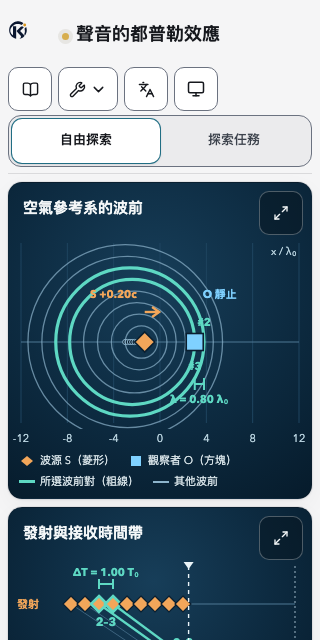
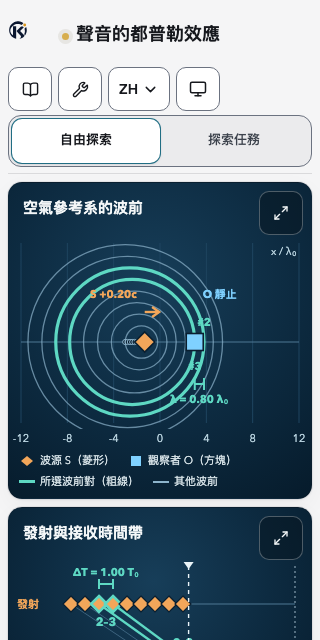
fix(doppler): tooltips follow hover and Tab focus only; language and tools as drop-downs
A tooltip no longer lingers after a click, a closed dialog or a closed notice:
it is driven by state (hover, or focus reached by Tab), not by :focus-within,
and steps aside when the control is used. The language control is a drop-down
showing its code (ZH/EN); tools has no chevron.

Changed region(s): [[0.3125, 0.0938, 0.6875, 0.1875], [0.2188, 0.125, 0.2812, 0.1562]]

diff --git a/tests/e2e/doppler.spec.ts b/tests/e2e/doppler.spec.ts
@@ -225,9 +225,7 @@ test.describe("Doppler — free exploration", () => {
     await page.getByRole("button", { name: "工具", exact: true }).click();
     await page.getByRole("button", { name: /匯出教學圖/ }).click();
     await expect(page.getByTestId("notice")).toContainText("已匯出");
-    // Focus returned to the tools button, whose tooltip is showing: the first Escape dismisses the tooltip only.
-    await page.keyboard.press("Escape");
-    await expect(page.getByTestId("notice")).toBeVisible();
+    // Focus returned to the tools button without raising a tooltip, so this Escape closes the notice.
     await page.keyboard.press("Escape");
     await expect(page.getByTestId("notice")).toHaveCount(0);
   });
@@ -265,12 +263,14 @@ test.describe("Doppler — free exploration", () => {
     await toggle.getByRole("button", { name: "自由探索" }).click();
     await expect(toggle).toHaveAttribute("data-value", "free");
 
-    // Header controls: icon only, named by aria-label, with a tooltip that appears on hover and on keyboard focus.
-    const headerControls: [string | RegExp, string][] = [["理論與模型", "理論與模型"], ["工具", "工具"], ["語言：English", "English"], [/^外觀：/, "外觀"]];
-    for (const [name, tip] of headerControls) {
-      const control = page.locator(".header-actions").getByRole(typeof name === "string" && name.startsWith("語言") ? "link" : "button", typeof name === "string" ? { name, exact: true } : { name });
+    // Header controls: named by aria-label, with a tooltip on hover and on keyboard focus. Theory, tools and appearance are
+    // icon-only; the language menu shows its code. Tools has no chevron; language and appearance are drop-downs.
+    const headerControls: [string | RegExp, string, boolean][] = [["理論與模型", "理論與模型", true], ["工具", "工具", true], ["語言：繁體中文", "語言", false], [/^外觀：/, "外觀", true]];
+    for (const [name, tip, iconOnly] of headerControls) {
+      const control = page.locator(".header-actions").getByRole("button", typeof name === "string" ? { name, exact: true } : { name });
       await expect(control.locator("svg").first()).toBeVisible();
-      expect((await control.innerText()).trim()).toBe("");
+      if (iconOnly) expect((await control.innerText()).trim()).toBe("");
+      else expect((await control.innerText()).trim()).toBe("ZH");
       const box = await control.boundingBox();
       expect(box!.height).toBeGreaterThanOrEqual(43.5);
       expect(box!.width).toBeGreaterThanOrEqual(43.5);
@@ -279,7 +279,10 @@ test.describe("Doppler — free exploration", () => {
       await page.mouse.move(0, 400);
       await expect.poll(() => control.evaluate((el) => getComputedStyle(el.closest(".doppler-tip")!, "::after").display)).toBe("none");
     }
-    await page.getByRole("button", { name: "理論與模型" }).focus();
+    expect(await page.getByRole("button", { name: "工具", exact: true }).locator("svg").count()).toBe(1); // the wrench only: no chevron
+    await page.getByRole("button", { name: "探索任務" }).focus();
+    await page.keyboard.press("Tab"); // the next stop is the theory button
+    await expect(page.getByRole("button", { name: "理論與模型" })).toBeFocused();
     await expect.poll(() => page.getByRole("button", { name: "理論與模型" }).evaluate((el) => getComputedStyle(el.closest(".doppler-tip")!, "::after").opacity)).toBe("1");
 
     // One entry for theory and model: no separate model-information control, and its content is in the theory.
@@ -318,7 +321,9 @@ test.describe("Doppler — free exploration", () => {
     await expect.poll(() => tipDisplay("理論與模型")).toBe("block");
     // Keyboard focus: dismiss with Escape, focus stays, Tab away and back restores it.
     await page.mouse.move(0, 400);
-    await theory.focus();
+    await page.getByRole("button", { name: "探索任務" }).focus();
+    await page.keyboard.press("Tab");
+    await expect(theory).toBeFocused();
     await expect.poll(() => tipDisplay("理論與模型")).toBe("block");
     await page.keyboard.press("Escape");
     await expect.poll(() => tipDisplay("理論與模型")).toBe("none");
@@ -332,6 +337,57 @@ test.describe("Doppler — free exploration", () => {
     await expect(page.getByRole("button", { name: /匯出教學圖/ })).toBeVisible();
     await page.keyboard.press("Escape");
     await expect(page.getByRole("button", { name: /匯出教學圖/ })).toHaveCount(0);
+  });
+
+  test("a tooltip never lingers after a click, a dialog, or a closed notice; the language menu is a drop-down", async ({ page }) => {
+    await open(page);
+    const tips = () => page.evaluate(() => [...document.querySelectorAll(".doppler-tip")].map((el) => getComputedStyle(el, "::after").display));
+    const none = (list: string[]) => list.every((display) => display === "none");
+    // Mouse: click the theory button, close the dialog (focus returns to the button), move away: nothing is left showing.
+    await page.getByRole("button", { name: "理論與模型", exact: true }).click();
+    await expect(page.getByRole("dialog")).toBeVisible();
+    await page.keyboard.press("Escape");
+    await expect(page.getByRole("dialog")).toHaveCount(0);
+    await page.mouse.move(0, 400);
+    await expect.poll(async () => none(await tips())).toBe(true);
+    // The share notice: open it, close it with the mouse, move away: no tooltip anywhere.
+    await page.getByRole("button", { name: "工具", exact: true }).click();
+    await page.getByRole("button", { name: /分享起始設定/ }).click();
+    await page.getByTestId("notice").getByRole("button", { name: "關閉通知" }).click();
+    await expect(page.getByTestId("notice")).toHaveCount(0);
+    await page.mouse.move(0, 400);
+    await expect.poll(async () => none(await tips())).toBe(true);
+    // Keyboard: Tab to the button shows its tooltip; Enter opens the dialog; when it closes, the returned focus stays quiet.
+    await page.getByRole("button", { name: "探索任務" }).focus();
+    await page.keyboard.press("Tab");
+    await expect.poll(async () => (await tips()).includes("block")).toBe(true); // reached by Tab: the tooltip is for this
+    await page.keyboard.press("Enter");
+    await expect(page.getByRole("dialog")).toBeVisible();
+    await page.keyboard.press("Escape");
+    await expect(page.getByRole("dialog")).toHaveCount(0);
+    await expect(page.getByRole("button", { name: "理論與模型", exact: true })).toBeFocused(); // focus came back...
+    await expect.poll(async () => none(await tips())).toBe(true); // ...without raising a tooltip
+
+    // Language: a drop-down of the two languages, current one marked, Escape closes it and returns focus.
+    const trigger = page.getByRole("button", { name: /^語言：繁體中文/ });
+    await expect(trigger).toHaveAttribute("aria-haspopup", "true");
+    await expect(trigger).toHaveAttribute("aria-expanded", "false");
+    await trigger.click();
+    await expect(trigger).toHaveAttribute("aria-expanded", "true");
+    const menu = page.locator(".doppler-menu-list", { has: page.getByRole("link", { name: "English" }) });
+    await expect(menu.getByRole("button", { name: "繁體中文" })).toHaveAttribute("aria-pressed", "true");
+    await expect(menu.getByRole("link", { name: "English" })).toHaveAttribute("href", /^\/en\/doppler\?s=/);
+    await expect(menu.getByRole("link", { name: "English" })).toHaveAttribute("hreflang", "en");
+    const box = await menu.boundingBox();
+    expect(box!.x).toBeGreaterThanOrEqual(0);
+    expect(box!.x + box!.width).toBeLessThanOrEqual(page.viewportSize()!.width);
+    await page.keyboard.press("Escape");
+    await expect(menu).toHaveCount(0);
+    await expect(trigger).toBeFocused();
+    // The appearance control is also a drop-down.
+    await page.getByRole("button", { name: /^外觀：/ }).click();
+    await expect(page.locator(".theme-menu__list")).toBeVisible();
+    await page.keyboard.press("Escape");
   });
 
   test("clicking a front that O never receives explains why and changes nothing; the last received front selects its pair", async ({ page }) => {
@@ -743,10 +799,13 @@ test.describe("Doppler — share, export, language", () => {
     await page.getByRole("button", { name: "Source approaches" }).click();
     await page.getByRole("button", { name: "Play to reception" }).first().click();
     await expect(page.getByTestId("pair-readout").locator("dl > div", { hasText: "Received frequency" }).locator("dd")).toHaveText("1.25");
-    await page.getByRole("link", { name: /繁體中文/ }).click();
+    await page.getByRole("button", { name: /^Language：English/ }).click();
+    await expect(page.getByRole("button", { name: "English", exact: true })).toHaveAttribute("aria-pressed", "true"); // the current language is marked
+    await page.getByRole("link", { name: "繁體中文" }).click();
     await expect.poll(() => new URL(page.url()).pathname).toBe("/doppler");
     await expect(page.getByRole("button", { name: "波源靠近" })).toHaveAttribute("aria-pressed", "true");
-    await page.getByRole("link", { name: /English/ }).click();
+    await page.getByRole("button", { name: /^語言：繁體中文/ }).click();
+    await page.getByRole("link", { name: "English" }).click();
     await expect.poll(() => new URL(page.url()).pathname).toBe("/en/doppler");
     await expect(page.getByRole("button", { name: "Source approaches" })).toHaveAttribute("aria-pressed", "true");
     // Guided English copy and theory.

diff --git a/components/DopplerLab.tsx b/components/DopplerLab.tsx
@@ -2,7 +2,7 @@
 
 import { useCallback, useEffect, useMemo, useRef, useState, type ReactNode } from "react";
 import Link from "next/link";
-import { BookOpen, Check, ChevronDown, ChevronLeft, ChevronRight, CircleCheck, Copy, Expand, FileBraces, FileImage, Languages, Lock, Maximize2, Minimize2, Pause, Play, RotateCcw, Share2, SkipBack, SkipForward, StepBack, StepForward, TriangleAlert, Wrench, X } from "lucide-react";
+import { BookOpen, Check, ChevronDown, ChevronLeft, ChevronRight, CircleCheck, Copy, Expand, FileBraces, FileImage, Lock, Maximize2, Minimize2, Pause, Play, RotateCcw, Share2, SkipBack, SkipForward, StepBack, StepForward, TriangleAlert, Wrench, X } from "lucide-react";
 import KakauLabMark from "@/components/KakauLabMark";
 import ThemeToggle from "@/components/ThemeToggle";
 import LabInfoDialog from "@/components/overlays/LabInfoDialog";
@@ -15,7 +15,7 @@ import WavefrontView from "@/components/doppler/WavefrontView";
 import { dopplerCopy } from "@/components/doppler/copy";
 import { DOPPLER_COLORS as C } from "@/components/doppler/palette";
 import { useElementSize } from "@/components/doppler/useElementSize";
-import { localizedPath, type Locale } from "@/lib/i18n";
+import { localizedPath, supportedLocales, type Locale } from "@/lib/i18n";
 import {
   createDopplerExperiment,
   dopplerAnalytic,
@@ -66,6 +66,8 @@ import {
 type Expanded = "wave" | "band" | null;
 type Snapshot = { setup: DopplerSetup; view: DopplerView; preset: DopplerPresetId | null; time: number; reference: DopplerReference | null };
 
+/** Short language codes shown on the language menu's button. */
+const LOCALE_CODES: Record<Locale, string> = { "zh-TW": "ZH", en: "EN" };
 const RATES = [0.25, 0.5, 1, 2, 4] as const;
 const f2 = (v: number | null | undefined) => (v === null || v === undefined || !Number.isFinite(v) ? "—" : v.toFixed(2));
 const signedC = (u: number) => (u === 0 ? "0" : `${u > 0 ? "+" : "−"}${Math.abs(u).toFixed(2)}c`);
@@ -86,12 +88,24 @@ function useReducedMotion() {
 /** An icon-only control that names itself in a tooltip on hover and keyboard focus (the accessible name is on the control). */
 function Tip({ label, children }: { label: string; children: ReactNode }) {
   const [hovered, setHovered] = useState(false);
-  const [focused, setFocused] = useState(false);
+  const [keyboardFocus, setKeyboardFocus] = useState(false);
   const [dismissed, setDismissed] = useState(false);
   const ref = useRef<HTMLSpanElement>(null);
-  const showing = (hovered || focused) && !dismissed;
-  /* WCAG 1.4.13: while a tooltip is showing, Escape dismisses it without moving focus and without doing anything else
-   * (the capture phase keeps this Escape from also closing a notice). A menu that is open owns its own Escape. */
+  const tabbedAt = useRef(0);
+  const showing = (hovered || keyboardFocus) && !dismissed;
+  /* Keyboard focus means focus that arrived by Tab or Shift+Tab. Focus that a script put back (a dialog returning to its
+   * button, a menu to its trigger) is not navigation, so it never raises a tooltip. */
+  useEffect(() => {
+    // Any other key, or a pointer press, ends "navigating by Tab".
+    const onKey = (event: KeyboardEvent) => { tabbedAt.current = event.key === "Tab" ? performance.now() : 0; };
+    const onPointer = () => { tabbedAt.current = 0; };
+    document.addEventListener("keydown", onKey, true);
+    document.addEventListener("pointerdown", onPointer, true);
+    return () => { document.removeEventListener("keydown", onKey, true); document.removeEventListener("pointerdown", onPointer, true); };
+  }, []);
+  /* A tooltip belongs to hovering or to keyboard focus, never to focus that a mouse click or a dialog's focus-return left behind,
+   * and it steps aside as soon as the control is used. While it is showing, Escape dismisses it (WCAG 1.4.13) without moving
+   * focus and without doing anything else (the capture phase keeps this Escape from also closing a notice); an open menu owns its Escape. */
   useEffect(() => {
     if (!showing) return;
     const onKey = (event: KeyboardEvent) => {
@@ -107,18 +121,19 @@ function Tip({ label, children }: { label: string; children: ReactNode }) {
       ref={ref}
       className="doppler-tip"
       data-tip={label}
-      data-dismissed={dismissed}
+      data-open={showing}
       onMouseEnter={() => { setHovered(true); setDismissed(false); }}
       onMouseLeave={() => { setHovered(false); setDismissed(false); }}
-      onFocus={() => { setFocused(true); setDismissed(false); }}
-      onBlur={() => { setFocused(false); setDismissed(false); }}
+      onFocus={(event) => { if (performance.now() - tabbedAt.current < 300 && event.target.matches(":focus-visible")) { setKeyboardFocus(true); setDismissed(false); } }}
+      onBlur={() => { setKeyboardFocus(false); setDismissed(false); }}
+      onClick={() => setDismissed(true)}
     >
       {children}
     </span>
   );
 }
 
-function Menu({ label, ariaLabel, icon, up = false, children }: { label: string; ariaLabel?: string; icon?: ReactNode; up?: boolean; children: ReactNode }) {
+function Menu({ label, ariaLabel, icon, chevron = true, up = false, children }: { label: string; ariaLabel?: string; icon?: ReactNode; chevron?: boolean; up?: boolean; children: ReactNode }) {
   const [open, setOpen] = useState(false);
   const ref = useRef<HTMLDivElement>(null);
   const trigger = useRef<HTMLButtonElement>(null);
@@ -133,7 +148,7 @@ function Menu({ label, ariaLabel, icon, up = false, children }: { label: string;
   return (
     <div className="doppler-menu" ref={ref}>
       <button ref={trigger} className={open ? "active" : ""} onClick={() => setOpen((v) => !v)} aria-expanded={open} aria-haspopup="true" aria-label={ariaLabel}>
-        {icon ?? label} <ChevronDown size={13} />
+        {icon ?? label}{chevron && <> <ChevronDown size={13} /></>}
       </button>
       {open && <div className="doppler-menu-list" data-up={up} role="group" aria-label={ariaLabel ?? label} onClick={() => { setOpen(false); trigger.current?.focus(); }}>{children}</div>}
     </div>
@@ -153,7 +168,6 @@ function download(contents: string, filename: string, type: string) {
 
 export default function DopplerLab({ share, locale = "zh-TW" }: { share?: DopplerShareInput; locale?: Locale }) {
   const copy = dopplerCopy[locale];
-  const other: Locale = locale === "en" ? "zh-TW" : "en";
   const initial = useMemo(() => decodeDopplerShare(share), [share]);
   const [setup, setSetup] = useState<DopplerSetup>(initial.setup);
   const [view, setView] = useState<DopplerView>(initial.view);
@@ -479,7 +493,7 @@ export default function DopplerLab({ share, locale = "zh-TW" }: { share?: Dopple
           </Tip>
           {!evidence.theory && <span id="doppler-lock-note" className="doppler-sr-only">{copy.modes.theoryLocked}</span>}
           <Tip label={copy.actions.tools}>
-            <Menu label={copy.actions.tools} ariaLabel={copy.actions.tools} icon={<Wrench size={18} />}>
+            <Menu label={copy.actions.tools} ariaLabel={copy.actions.tools} icon={<Wrench size={18} />} chevron={false}>
               {evidence.share && <button onClick={shareSetup}><Share2 size={14} /> {copy.actions.share}</button>}
               {evidence.export && <>
                 <button onClick={() => exportResult("svg")}><FileImage size={14} /> {copy.actions.exportSvg}</button>
@@ -488,8 +502,12 @@ export default function DopplerLab({ share, locale = "zh-TW" }: { share?: Dopple
               {!evidence.share && !evidence.export && <p className="doppler-menu-note">{copy.actions.guidedNoTools}</p>}
             </Menu>
           </Tip>
-          <Tip label={copy.languages[other]}>
-            <Link className="doppler-lang doppler-icon-button" href={shareHref(other)} hrefLang={other === "en" ? "en" : "zh-Hant"} lang={other === "en" ? "en" : "zh-Hant"} aria-label={`${copy.language}：${copy.languages[other]}`}><Languages size={18} /></Link>
+          <Tip label={copy.language}>
+            <Menu label={LOCALE_CODES[locale]} ariaLabel={`${copy.language}：${copy.languages[locale]}`}>
+              {supportedLocales.map((target) => (target === locale
+                ? <button key={target} aria-pressed="true" lang={target === "en" ? "en" : "zh-Hant"}><Check size={14} /> {copy.languages[target]}</button>
+                : <Link key={target} className="doppler-menu-link" href={shareHref(target)} hrefLang={target === "en" ? "en" : "zh-Hant"} lang={target === "en" ? "en" : "zh-Hant"}><span className="doppler-menu-gap" aria-hidden="true" /> {copy.languages[target]}</Link>))}
+            </Menu>
           </Tip>
           <Tip label={copy.actions.appearance}><ThemeToggle locale={locale} /></Tip>
         </div>

diff --git a/app/doppler-c2.css b/app/doppler-c2.css
@@ -13,8 +13,6 @@
 .doppler-c2 .doppler-identity h1 { margin: 0; font-size: 22px; line-height: 1.25; }
 .doppler-c2 .doppler-identity { order: 1; }
 .doppler-c2 .doppler-topbar .header-actions { display: flex; flex-wrap: wrap; align-items: center; flex: none; order: 3; }
-.doppler-c2 .doppler-lang { display: inline-flex; align-items: center; justify-content: center; min-width: 44px; min-height: 44px; padding: 8px 12px; border: 1px solid var(--lc-border-control); border-radius: 10px; background: var(--lc-raised); color: var(--lc-text); font-size: 14px; text-decoration: none; }
-.doppler-c2 .doppler-lang:hover { border-color: var(--lc-accent); background: var(--lc-sunken); }
 .doppler-c2 .doppler-icon-button { min-width: 44px; min-height: 44px; }
 
 /* ---- Buttons: one 44px control height, selected state = tint + ring + weight (not colour alone) ---- */
@@ -61,6 +59,9 @@
 .doppler-c2 .doppler-menu-list { position: absolute; right: 0; top: calc(100% + 6px); z-index: 30; display: flex; flex-direction: column; gap: 3px; min-width: 240px; padding: 8px; border: 1px solid var(--lc-border); border-radius: 14px; background: var(--lc-raised); box-shadow: var(--lc-card-shadow); }
 .doppler-c2 .doppler-menu-list button { justify-content: flex-start; width: 100%; border-color: transparent; background: transparent; text-align: left; }
 .doppler-c2 .doppler-menu-list[data-up="true"] { top: auto; bottom: calc(100% + 6px); min-width: 120px; }
+.doppler-c2 .doppler-menu-list a.doppler-menu-link { display: flex; align-items: center; gap: 6px; min-height: 44px; padding: 8px 10px; border-radius: 10px; color: var(--lc-text); font-size: 14px; text-decoration: none; }
+.doppler-c2 .doppler-menu-list a.doppler-menu-link:hover { background: var(--lc-sunken); }
+.doppler-c2 .doppler-menu-gap { display: inline-block; width: 14px; flex: none; }
 .doppler-c2 .doppler-menu-note { margin: 0; padding: 8px 10px; max-width: 260px; color: var(--lc-muted); font-size: 13px; line-height: 1.5; }
 
 /* ---- Mode toggle: one segmented control with a thumb that slides to the chosen mode ---- */
@@ -78,12 +79,12 @@
 .doppler-c2 .doppler-tip { position: relative; display: inline-flex; }
 /* Not rendered at all until needed, so an invisible tooltip can never widen the page. */
 .doppler-c2 .doppler-tip::after { content: attr(data-tip); display: none; position: absolute; z-index: 60; top: calc(100% + 6px); right: 0; padding: 4px 9px; border-radius: 7px; background: var(--lc-text); color: var(--lc-page); font-size: 12px; line-height: 1.5; white-space: nowrap; pointer-events: none; }
-.doppler-c2 .doppler-tip:is(:hover, :focus-within)::after { display: block; animation: doppler-tip-in 120ms ease 250ms both; }
+.doppler-c2 .doppler-tip[data-open="true"]::after { display: block; animation: doppler-tip-in 120ms ease 250ms both; }
 @keyframes doppler-tip-in { from { opacity: 0; } to { opacity: 1; } }
-.doppler-c2 .doppler-tip:has([aria-expanded="true"])::after, .doppler-c2 .doppler-tip[data-dismissed="true"]::after { display: none !important; }
+.doppler-c2 .doppler-tip:has([aria-expanded="true"])::after { display: none !important; }
 @media (prefers-reduced-motion: reduce) { .doppler-c2 .doppler-tip::after { animation: none !important; } }
-.doppler-c2 .doppler-tip .doppler-menu > button { min-width: 44px; padding: 0 10px; gap: 4px; }
-.doppler-c2 .doppler-icon-button, .doppler-c2 .doppler-lang { min-width: 44px; min-height: 44px; padding: 0; }
+.doppler-c2 .doppler-tip .doppler-menu > button { min-width: 44px; padding: 0 10px; gap: 4px; font-weight: 600; letter-spacing: .02em; }
+.doppler-c2 .doppler-icon-button { min-width: 44px; min-height: 44px; padding: 0; }
 .doppler-c2 .doppler-sr-only { position: absolute; width: 1px; height: 1px; margin: -1px; padding: 0; overflow: hidden; clip-path: inset(50%); white-space: nowrap; border: 0; }
 .doppler-c2 .doppler-leave-confirm { display: flex; flex-wrap: wrap; align-items: center; gap: 8px; margin: 0 0 8px; padding: 10px 12px; border: 1px solid var(--lc-accent); border-radius: 10px; background: var(--lc-raised); }
 .doppler-c2 .doppler-leave-confirm p { flex: 1 1 220px; margin: 0; font-size: 14px; line-height: 1.5; }

diff --git a/docs/audits/doppler-prototype-20261119.md b/docs/audits/doppler-prototype-20261119.md
@@ -163,8 +163,13 @@
 | --- | --- |
 | `npm run lint` | 0 error（2 個既有 warning） |
 | `npm test`（build + unit） | 486 / 486 |
-| Doppler Playwright | `doppler.spec.ts` 36 + `doppler-collisions.spec.ts` 10 = **46 / 46** |
+| Doppler Playwright | `doppler.spec.ts` 37 + `doppler-collisions.spec.ts` 10 = **47 / 47**（第四輪後） |
 
 ### 仍未通過或未驗
 
 學生理解（解釋題）、Owner Product UX Gate、真機與 Safari／Firefox／螢幕閱讀器、200%／400% 縮放與旋轉、台文 ruby、英文文案人工審稿、代表裝置效能、觸控裝置上的 tooltip（沒有 hover）。
+
+### 第四輪回饋（tooltip 殘留、標頭選單）
+
+- **tooltip 殘留**：原因是 tooltip 用 CSS 的 `:focus-within` 顯示，滑鼠點擊或對話框關閉後把焦點放回按鈕，焦點就一直在，tooltip 跟著不消失。改為由狀態驅動：只在**滑過**或**以 Tab／Shift+Tab 抵達的焦點**時顯示；程式放回的焦點（對話框、選單回到觸發鈕）不顯示；使用該控制項（點擊）即收起；Esc 仍可關閉。E2E 覆蓋：點開理論再關、關閉分享通知、鍵盤開關對話框後皆無殘留。
+- **標頭**：工具（無 chevron）、語言（顯示語言代碼 `ZH`／`EN`，下拉列出兩種語言、目前者打勾、另一種為連結並帶起始設定）、外觀（本來就是下拉）皆為 drop-down；理論與模型維持單一圖示按鈕。
